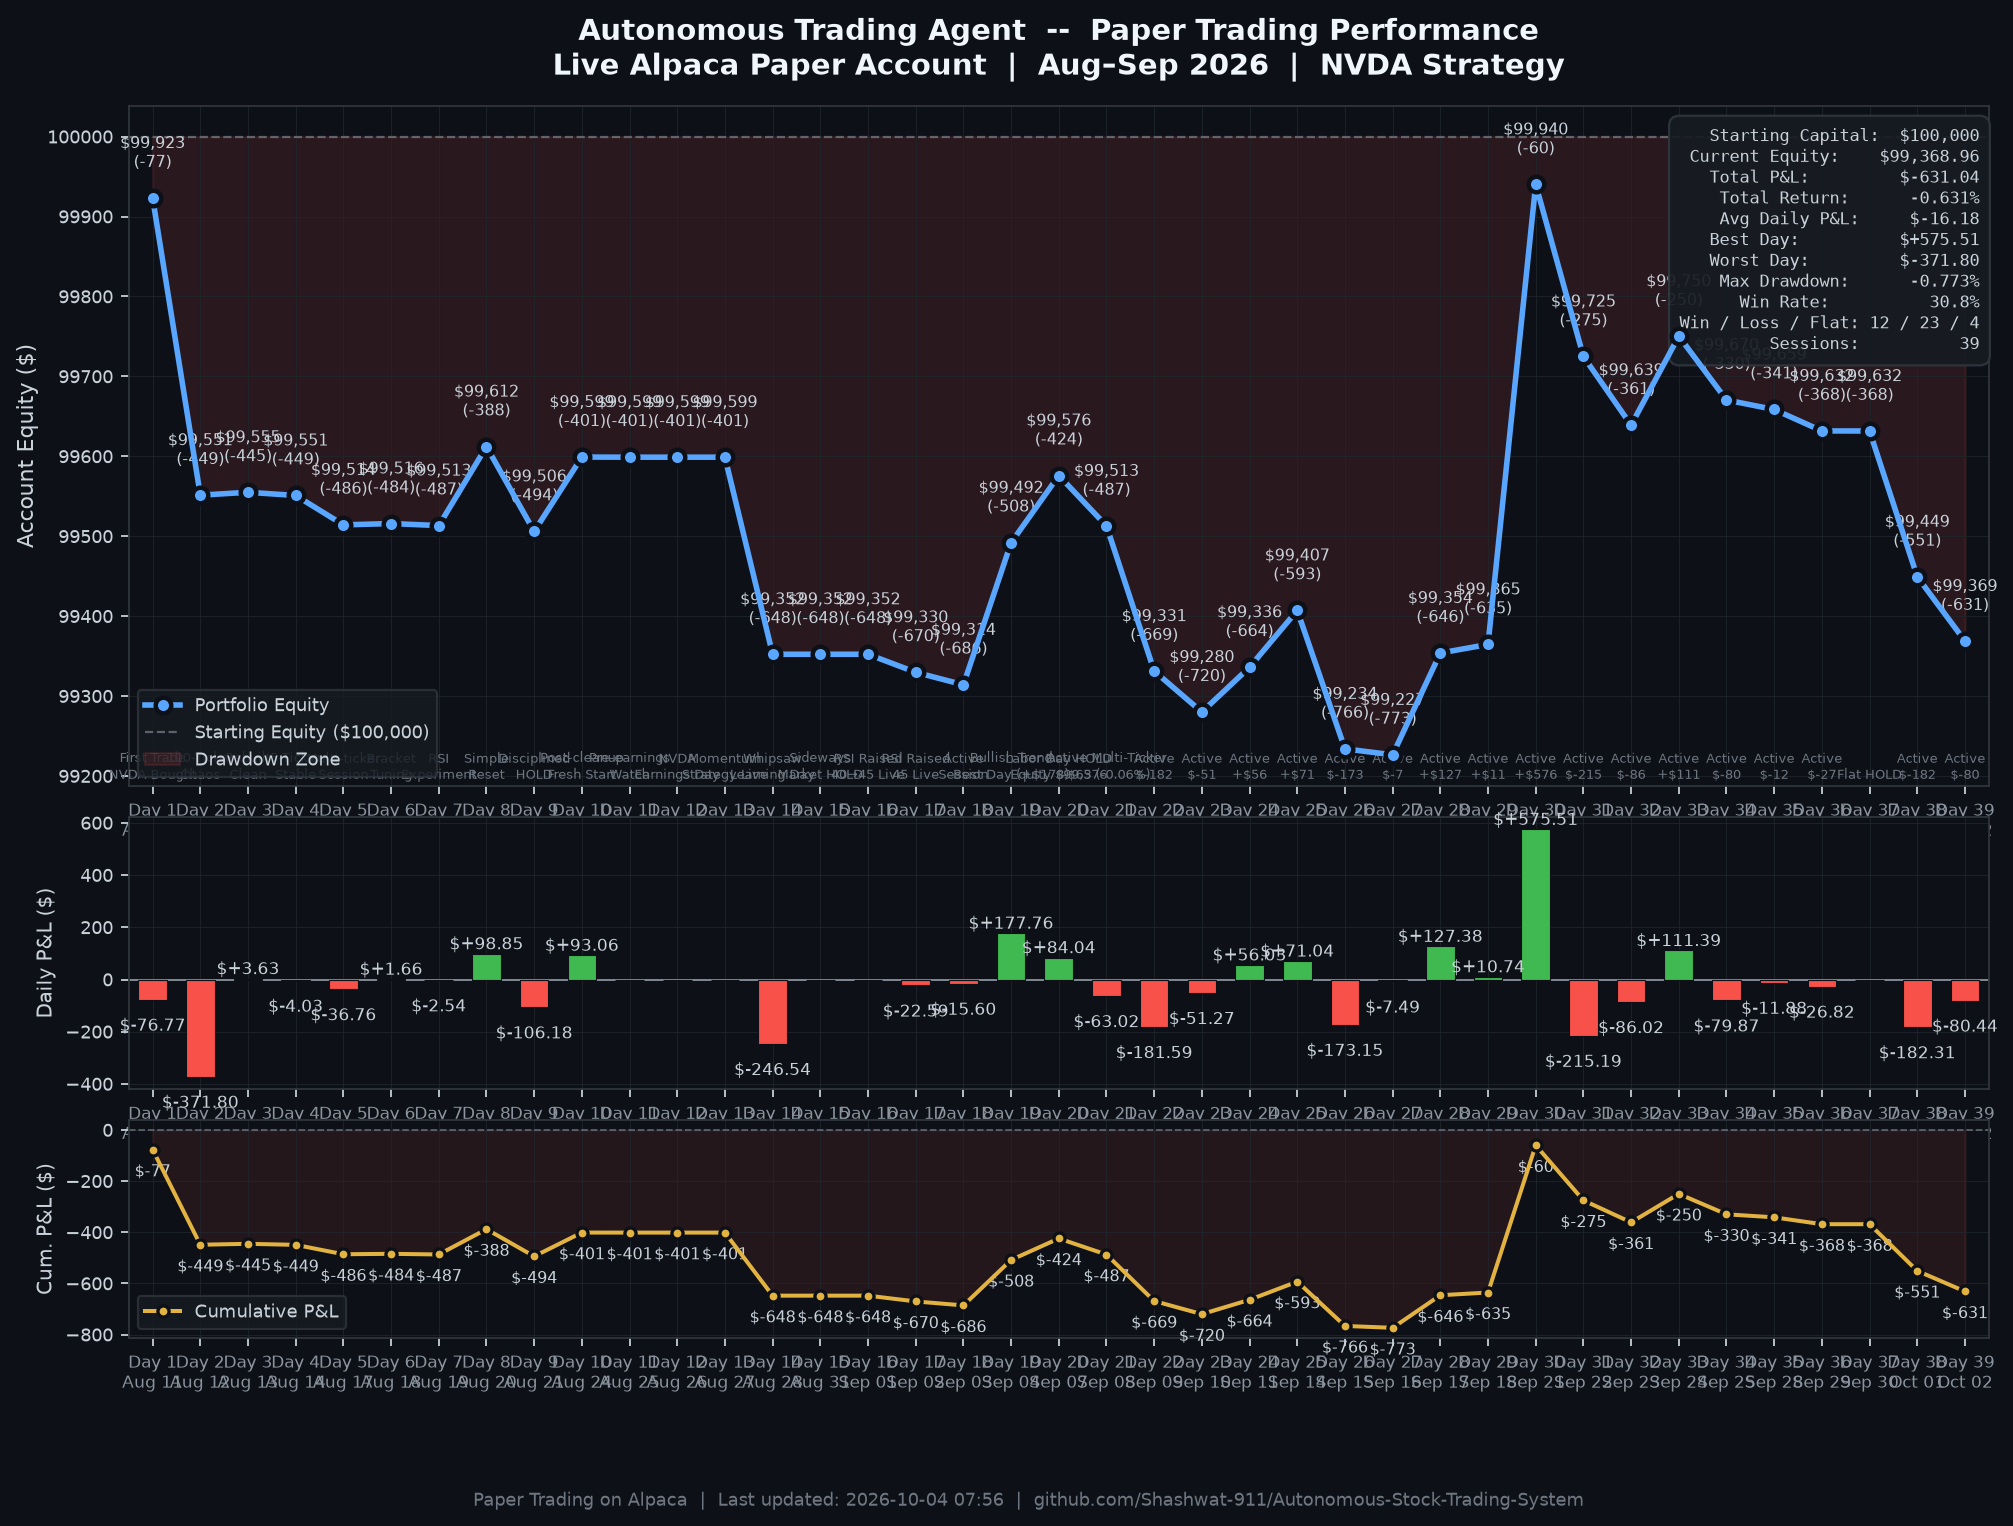
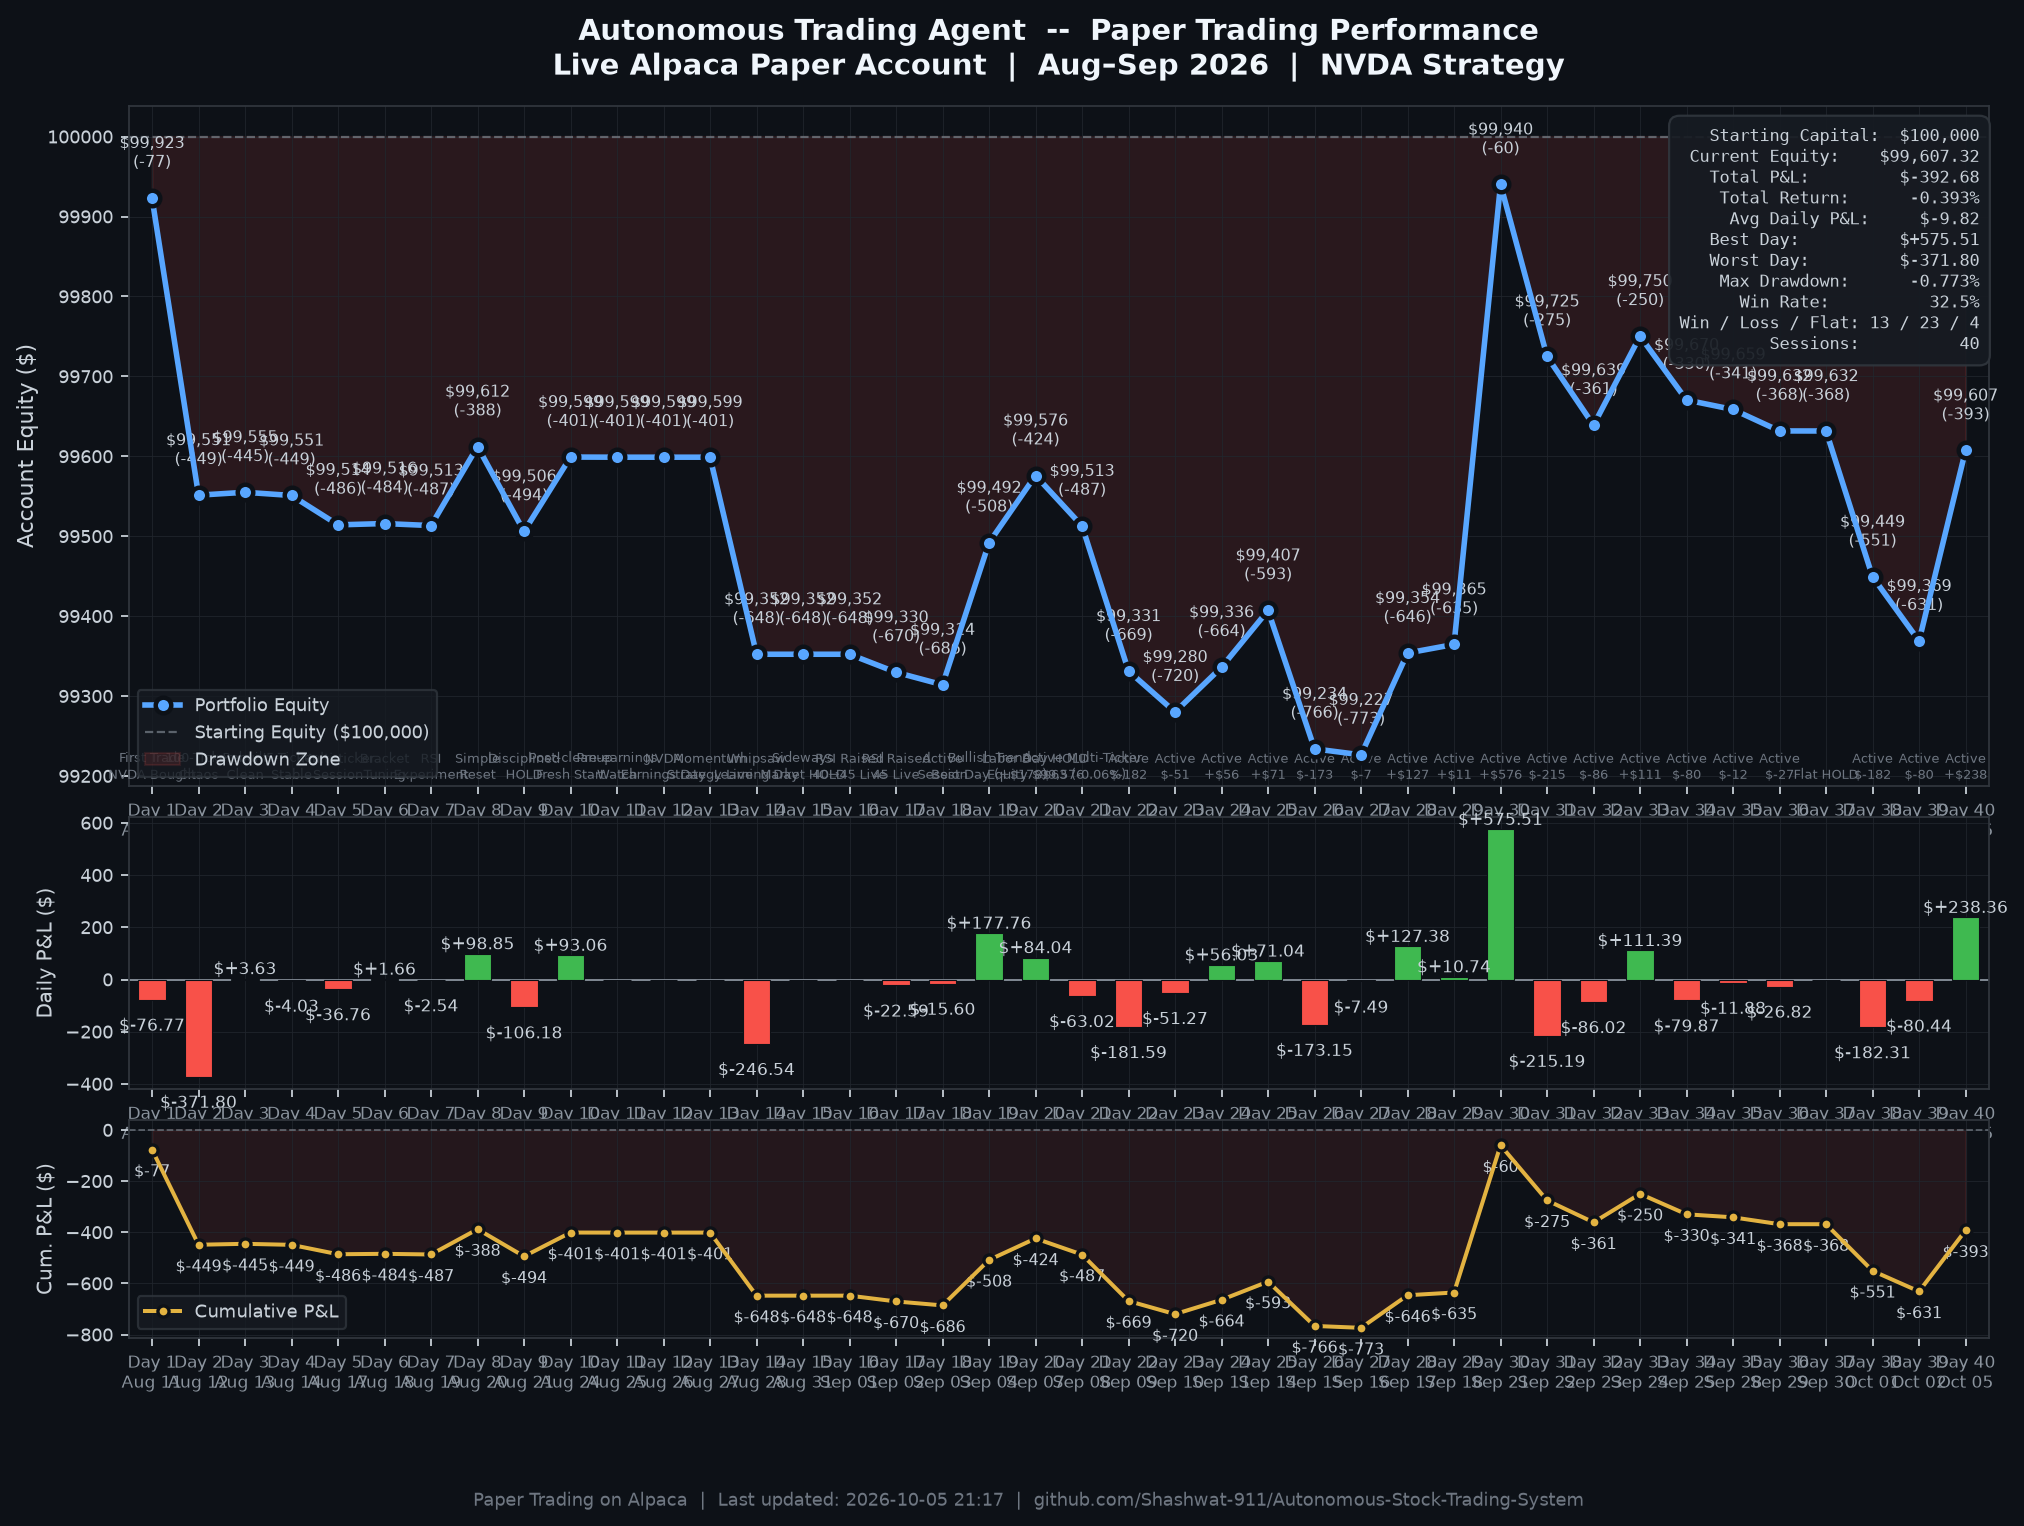
auto(session): 2026-10-05 | equity=$99,607 | return=-0.393%

diff --git a/README.md b/README.md
@@ -47,7 +47,7 @@ The automated trading bot is deployed in the cloud on Render with continuous mon
 
 > **Paper Trading on Alpaca** | Started: Aug 11, 2026 | Initial Capital: $100,000.00 | Universe: NVDA, TSLA, META, MSFT, AAPL (5-Stock High-Momentum Universe)
 
-![Daily P&L Chart](outputs/daily_pnl_chart.png?v=20261002)
+![Daily P&L Chart](outputs/daily_pnl_chart.png?v=20261005)
 
 *Chart auto-generated from live Alpaca Portfolio History API and verified session telemetry via [`scripts/generate_pnl_chart.py`](scripts/generate_pnl_chart.py).*
 
@@ -94,8 +94,9 @@ The automated trading bot is deployed in the cloud on Render with continuous mon
 | **Day 37** | Sep 30 (Wed) | $99,631.71 | -$0.09 | -$368.29 | -0.368% | Flat Session - Disciplined HOLD |
 | **Day 38** | Oct 01 (Thu) | $99,449.40 | -$182.31 | -$550.60 | -0.551% | Loss Session (-$182.31) |
 | **Day 39** | Oct 02 (Fri) | $99,368.96 | -$80.44 | -$631.04 | -0.631% | Active Session (-$80.44) |
+| **Day 40** | Oct 05 (Mon) | $99,607.32 | **+$238.36** | -$392.68 | -0.393% | Profitable Session (+$238.36) |
 
-> **Current Equity**: $99,368.96 | **Total P&L**: $-631.04 | **Best Day**: $+575.51 | **Win Rate**: 30.8% (12W / 23L / 4 Flat) | **Max Drawdown**: -0.773% | **Sessions**: 39
+> **Current Equity**: $99,607.32 | **Total P&L**: $-392.68 | **Best Day**: $+575.51 | **Win Rate**: 32.5% (13W / 23L / 4 Flat) | **Max Drawdown**: -0.773% | **Sessions**: 40
 ---
 
 ## System Architecture
